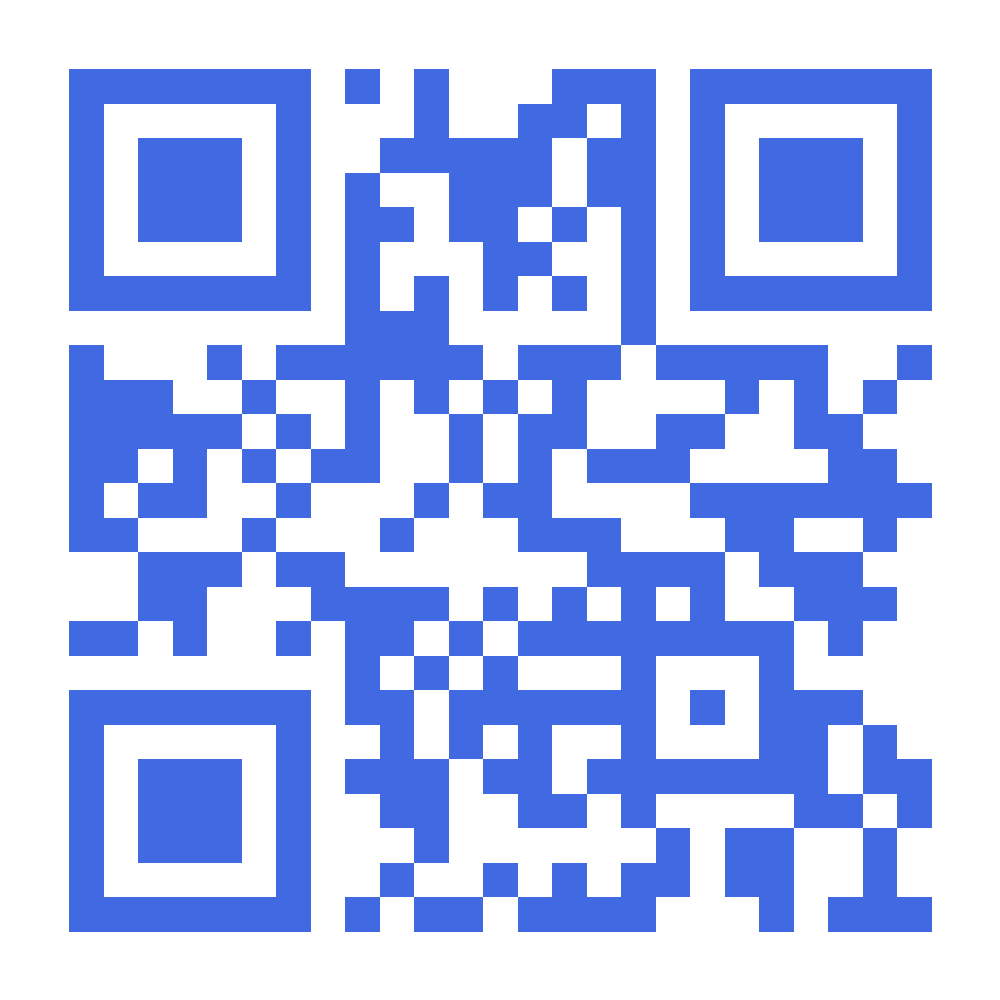
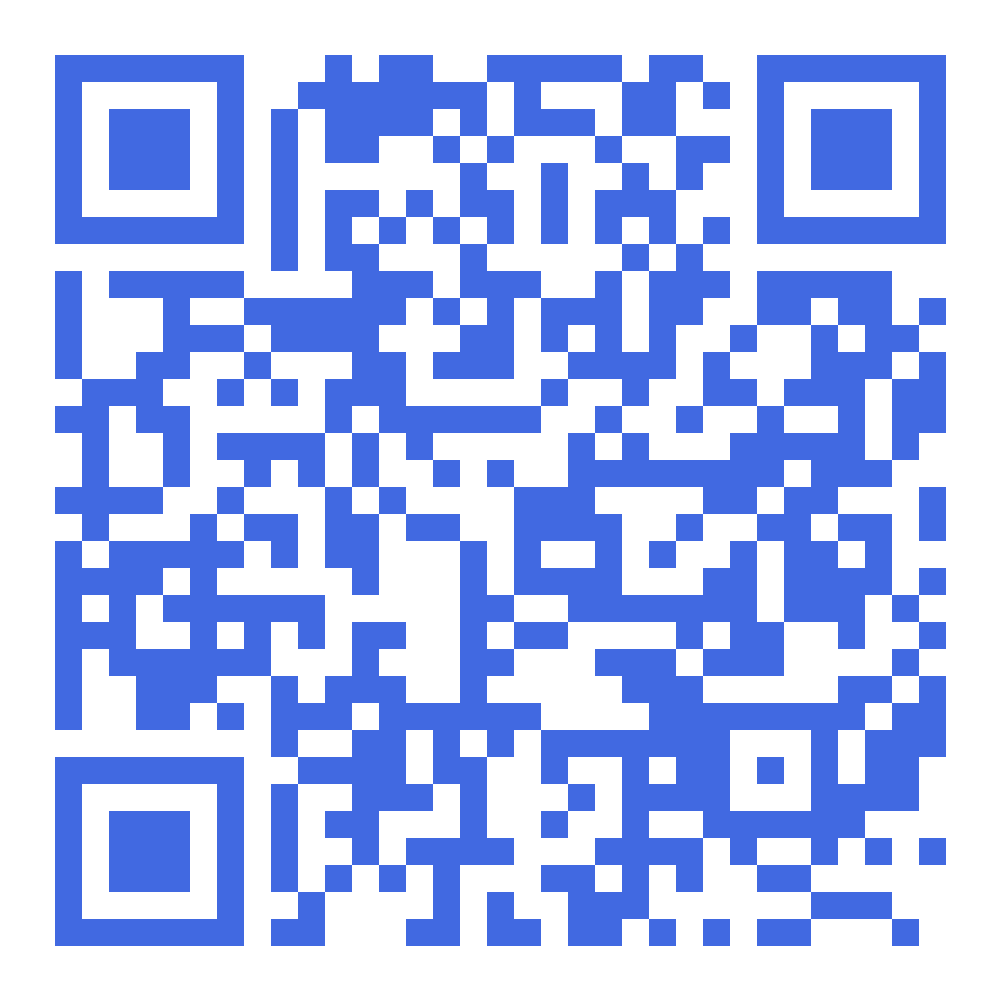
Update duplicate checking to match all 3 fields
- Now checks first name AND last name AND email
- Only prevents duplicate if all 3 fields match exactly
- Allows same email with different name or vice versa

diff --git a/backend/server.js b/backend/server.js
@@ -88,10 +88,13 @@ app.post('/api/customers/register', async (req, res) => {
     }
 
     try {
-        // Check if customer already exists
+        // Check if customer already exists (must match first name, last name, AND email)
         const existing = await pool.query(
-            'SELECT * FROM customers WHERE LOWER(email) = LOWER($1)',
-            [email]
+            `SELECT * FROM customers
+             WHERE LOWER(first_name) = LOWER($1)
+             AND LOWER(last_name) = LOWER($2)
+             AND LOWER(email) = LOWER($3)`,
+            [firstName, lastName, email]
         );
 
         if (existing.rows.length > 0) {

diff --git a/generate-qr.js b/generate-qr.js
@@ -2,7 +2,7 @@ const QRCode = require('qrcode');
 const fs = require('fs');
 const path = require('path');
 
-const url = 'http://10.1.10.32:8080/';
+const url = 'https://loyalty-program-app-xb1v.onrender.com/';
 const outputPath = path.join(__dirname, 'loyalty-qr-code.png');
 
 // Generate QR code
